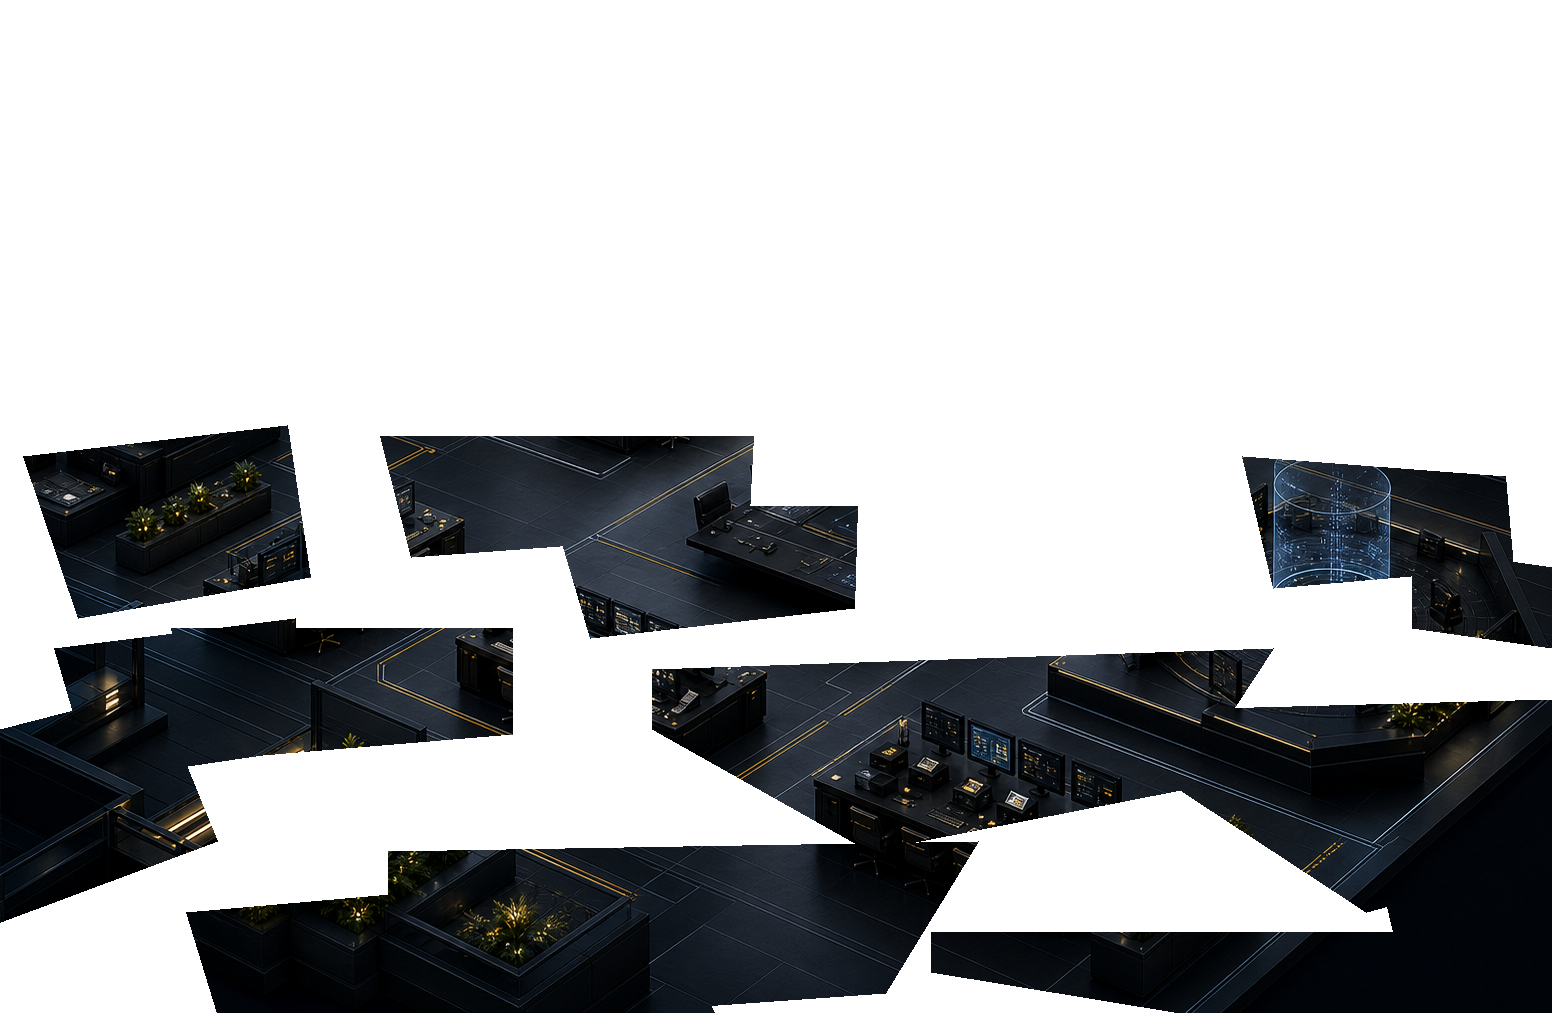
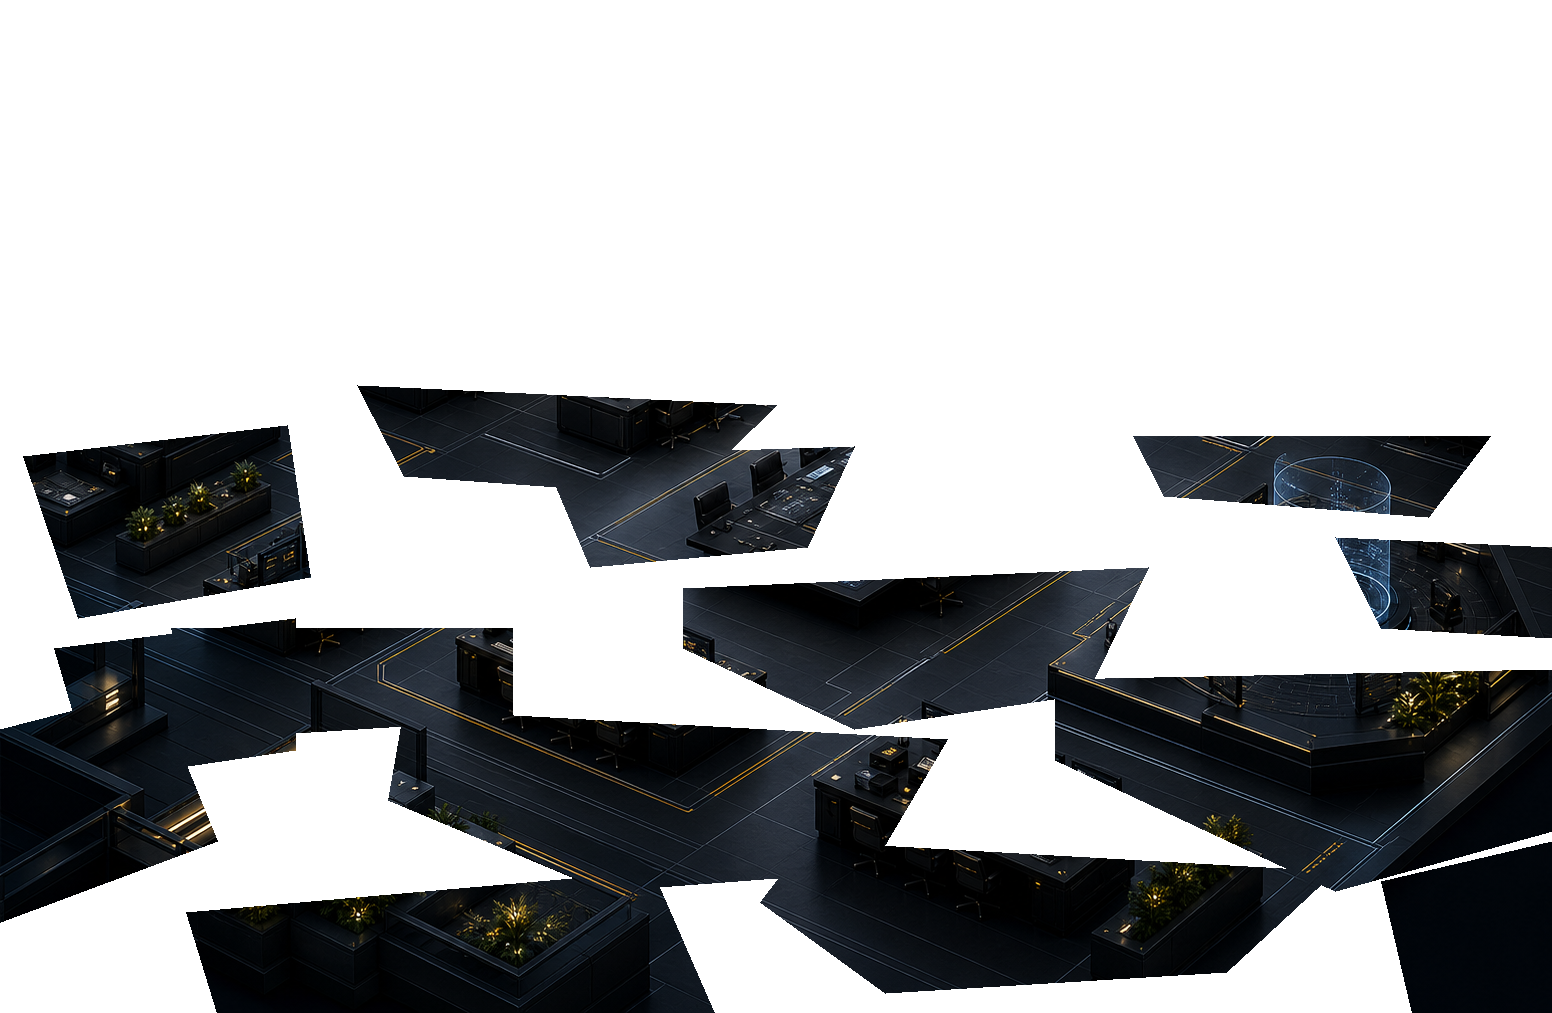
Correct office nav occlusion map

Changed region(s): [[0.1856, 0.3672, 1.0, 1.0], [0.9278, 0.8263, 1.0, 0.8569]]

diff --git a/src/views/Office.tsx b/src/views/Office.tsx
@@ -61,6 +61,8 @@ interface DragState {
 
 const STATUS_INTERVAL_MS = 5_000;
 const DRAG_THRESHOLD_PX = 8;
+const MIN_FALLBACK_ROUTE_DISTANCE = 7;
+const MAX_FALLBACK_ROUTE_DISTANCE = 30;
 
 const STATUS_COLORS: Record<OfficeStatus, string> = {
   active: "#8dfff0",
@@ -111,8 +113,21 @@ function pickPatrol(name: string): string[] {
 }
 
 function chooseDestination(agent: SceneAgent): string {
-  const candidates = sameComponentNodeIds(agent.currentNodeId, agent.patrolNodes)
+  const patrolCandidates = sameComponentNodeIds(agent.currentNodeId, agent.patrolNodes)
     .filter((nodeId) => nodeId !== agent.currentNodeId);
+  if (patrolCandidates.length > 0) {
+    return patrolCandidates[Math.floor(Math.random() * patrolCandidates.length)] ?? agent.currentNodeId;
+  }
+
+  const currentNode = NAV_NODES[agent.currentNodeId];
+  const componentNodeIds = sameComponentNodeIds(agent.currentNodeId, Object.keys(NAV_NODES));
+  const candidates = componentNodeIds.filter((nodeId) => {
+    if (nodeId === agent.currentNodeId) return false;
+    const node = NAV_NODES[nodeId];
+    if (!currentNode || !node) return true;
+    const distance = Math.hypot(node.x - currentNode.x, node.y - currentNode.y);
+    return distance >= MIN_FALLBACK_ROUTE_DISTANCE && distance <= MAX_FALLBACK_ROUTE_DISTANCE;
+  });
   if (candidates.length === 0) return agent.currentNodeId;
   return candidates[Math.floor(Math.random() * candidates.length)] ?? agent.currentNodeId;
 }
@@ -594,6 +609,12 @@ export function OfficeView({ onOpenAgentChat }: OfficeViewProps) {
   const collapsedMissionTitle = veryCompactScene ? "Mission" : "Mission Control";
   const collapsedOverlayTitle = veryCompactScene ? "Overlay" : "Live Overlay";
   const compactSummary = `${visibleEmployees} visible · ${movingAgents} moving`;
+  const foregroundOccluders = useMemo(
+    () => SCENE_OBJECTS.filter((object) => object.occludesAgents),
+    [],
+  );
+  const cssPolygon = (points: ScenePoint[]) =>
+    `polygon(${points.map((point) => `${point.x}% ${point.y}%`).join(", ")})`;
 
   const clientToScenePoint = (clientX: number, clientY: number): ScenePoint | null => {
     const rect = sceneRef.current?.getBoundingClientRect();
@@ -825,7 +846,9 @@ export function OfficeView({ onOpenAgentChat }: OfficeViewProps) {
               />
             ))}
 
-            {showGraph && SCENE_OBJECTS.map((object) => (
+            {showGraph && SCENE_OBJECTS
+              .filter((object) => object.blocksMovement || object.occludesAgents)
+              .map((object) => (
               <g key={object.id}>
                 <polygon
                   points={object.footprint.map((point) => `${point.x},${point.y}`).join(" ")}
@@ -935,6 +958,23 @@ export function OfficeView({ onOpenAgentChat }: OfficeViewProps) {
               zIndex: 3,
             }}
           >
+            {foregroundOccluders.map((object) => (
+              <div
+                key={`${object.id}-foreground`}
+                aria-hidden
+                style={{
+                  position: "absolute",
+                  inset: 0,
+                  zIndex: Math.round(object.zLayer * 10),
+                  pointerEvents: "none",
+                  backgroundImage: `url(${SCENE_FOREGROUND_ASSET})`,
+                  backgroundPosition: "center",
+                  backgroundSize: "100% 100%",
+                  clipPath: cssPolygon(object.occlusionFootprint ?? object.footprint),
+                }}
+              />
+            ))}
+
             {sortedAgents.map((agent) => {
               const moving = agent.path.length > 0;
               const focused = agent.name === activeAgentName;
@@ -1138,26 +1178,6 @@ export function OfficeView({ onOpenAgentChat }: OfficeViewProps) {
                 />
               </div>
             )}
-          </div>
-
-          <div
-            aria-hidden
-            style={{
-              position: "absolute",
-              inset: 0,
-              zIndex: 5,
-              pointerEvents: "none",
-            }}
-          >
-            <div
-              style={{
-                position: "absolute",
-                inset: 0,
-                backgroundImage: `url(${SCENE_FOREGROUND_ASSET})`,
-                backgroundPosition: "center",
-                backgroundSize: "100% 100%",
-              }}
-            />
           </div>
 
           <div
